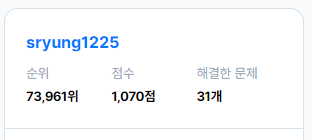
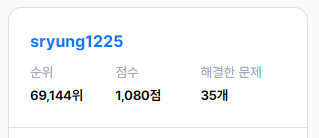
day7 4문제 : 배열 자르기 / 외계행성의 나이 / 진료순서 정하기 / 순서쌍의 개수

diff --git a/Level0/외계행성의나이.js b/Level0/외계행성의나이.js
@@ -1,0 +1,14 @@
+function solution(age) {
+  const planetAge = ["a", "b", "c", "d", "e", "f", "g", "h", "i", "j"];
+  let planetMyAge = [];
+  const earthMyAge = age.toString().split("");
+  for(let i of earthMyAge){
+    planetMyAge.push(planetAge[i]);
+  }
+  return planetMyAge.join("");
+}
+
+// 더 좋은 풀이 : map 활용하고 연산 한 줄로 줄이기
+// function solution(age) {
+//   return age.toString().split("").map(v => "abcdefghij"[v]).join("");
+// }

diff --git a/Level0/배열자르기.js b/Level0/배열자르기.js
@@ -1,0 +1,12 @@
+function solution(numbers, num1, num2) {
+  const answer = [];
+  for (let i=num1; i<=num2; i++){
+    answer.push(numbers[i]);
+  }
+  return answer;
+}
+
+// 더 좋은 풀이 : slice() 메서드 적절하게 사용하기
+// function solution(numbers, num1, num2) {
+//   return numbers.slice(num1, num2 + 1);
+// }

diff --git a/Level0/진료순서정하기.js b/Level0/진료순서정하기.js
@@ -1,0 +1,5 @@
+function solution(emergency) {
+  const sortArray = [...emergency].sort((a, b) => b - a);
+  const answer = emergency.map(v => sortArray.indexOf(v)+1);
+  return answer;
+}

diff --git a/Level0/순서쌍의개수.js b/Level0/순서쌍의개수.js
@@ -1,0 +1,9 @@
+function solution(n) {
+  let answer = 0;
+  for (let i=1; i<=n; i++){
+    if(n%i === 0){
+        answer += 1;
+    }
+  }
+  return answer;
+}

diff --git a/README.md b/README.md
@@ -56,4 +56,8 @@
 | 0 | [특정 문자 제거하기](https://school.programmers.co.kr/learn/courses/30/lessons/120826) | [특정문자제거하기.js](./Level0/특정문자제거하기.js)
 | 0 | [각도기](https://school.programmers.co.kr/learn/courses/30/lessons/120829) | [각도기.js](./Level0/각도기.js)
 | 0 | [양꼬치](https://school.programmers.co.kr/learn/courses/30/lessons/120830) | [양꼬치.js](./Level0/양꼬치.js)
-| 0 | [짝수의합](https://school.programmers.co.kr/learn/courses/30/lessons/120831) | [짝수의합.js](./Level0/짝수의합.js)
+| 0 | [짝수의 합](https://school.programmers.co.kr/learn/courses/30/lessons/120831) | [짝수의합.js](./Level0/짝수의합.js)
+| 0 | [배열 자르기](https://school.programmers.co.kr/learn/courses/30/lessons/120833) | [배열자르기.js](./Level0/배열자르기.js)
+| 0 | [외계행성의 나이](https://school.programmers.co.kr/learn/courses/30/lessons/120833) | [외계행성의나이.js](./Level0/외계행성의나이.js)
+| 0 | [진료순서 정하기](https://school.programmers.co.kr/learn/courses/30/lessons/120833) | [진료순서정하기.js](./Level0/진료순서정하기.js)
+| 0 | [순서쌍의 개수](https://school.programmers.co.kr/learn/courses/30/lessons/120833) | [순서쌍의개수.js](./Level0/순서쌍의개수.js)
